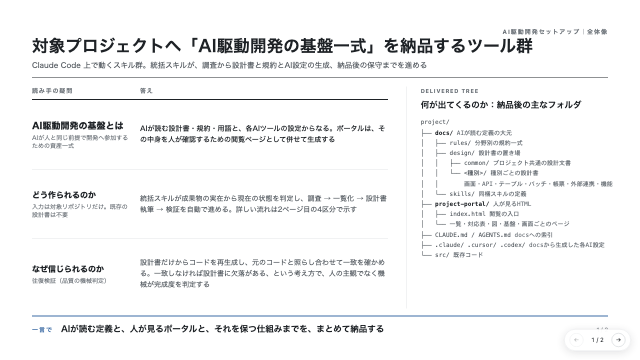
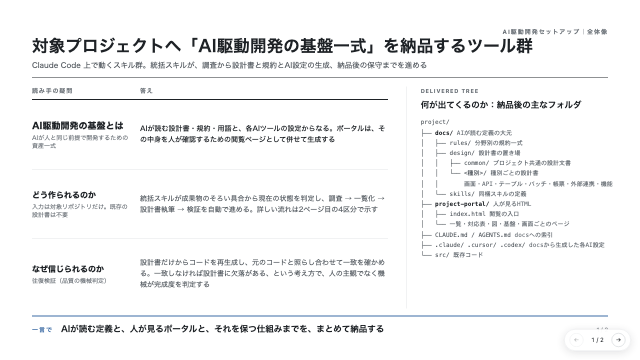
【スタイル】表示崩れと日本語を直す

Changed region(s): [[0.2188, 0.5194, 0.5938, 0.6111], [0.0312, 0.3972, 0.125, 0.4278], [0.1562, 0.3667, 0.1875, 0.3972]]

diff --git a/slides/AI駆動開発基盤納品-4区分/解説スライド.html b/slides/AI駆動開発基盤納品-4区分/解説スライド.html
@@ -40,6 +40,7 @@
   .role-nm{ margin:0; font-size:19px; font-weight:700; line-height:1.25; color:var(--ink); }
   .nm-sub{ display:block; font-size:11px; font-weight:400; color:var(--label); margin-top:1px; }
   .actor{ align-self:flex-start; font:700 10px/1 system-ui,sans-serif; letter-spacing:.06em; color:var(--label); border:1px solid var(--line); padding:3px 6px; }
+  .actor-set{ display:flex; flex-direction:column; gap:3px; align-self:flex-start; }
   .stage.focus .actor{ color:var(--accent); border-color:var(--accent); }
   .items{ margin:0; padding-left:15px; color:var(--muted); font-size:12px; line-height:1.55; }
   .items li+li{ margin-top:2px; }
@@ -72,12 +73,12 @@
       <div class="guide">
         <div class="g-head"><span>読み手の疑問</span><span>答え</span></div>
         <div class="g-row star">
-          <div class="g-what"><span class="nm">AI駆動開発の基盤とは</span><span class="sub">AIが人と同じ前提で開発へ参加するための資産一式</span></div>
+          <div class="g-what"><span class="nm">AI駆動開発の基盤とは</span><span class="sub">AIが人と同じ前提で開発するための資産一式</span></div>
           <span class="g-mid">AIが読む設計書・規約・用語と、各AIツールの設定からなる。ポータルは、その中身を人が確認するための閲覧ページとして併せて生成する</span>
         </div>
         <div class="g-row">
           <div class="g-what"><span class="nm">どう作られるのか</span><span class="sub">入力は対象リポジトリだけ。既存の設計書は不要</span></div>
-          <span class="g-mid">統括スキルが成果物の実在から現在の状態を判定し、調査 → 一覧化 → 設計書執筆 → 検証を自動で進める。詳しい流れは2ページ目の4区分で示す</span>
+          <span class="g-mid">統括スキルが成果物のそろい具合から現在の状態を判定し、調査 → 一覧化 → 設計書執筆 → 検証を自動で進める。詳しい流れは2ページ目の4区分で示す</span>
         </div>
         <div class="g-row">
           <div class="g-what"><span class="nm">なぜ信じられるのか</span><span class="sub">往復検証（品質の機械判定）</span></div>
@@ -121,20 +122,20 @@
       <article class="stage">
         <span class="level">1｜SETUP</span>
         <p class="role-nm">セットアップ</p>
-        <span class="actor">実行：本ツール群｜対象：納品先のリポジトリ</span>
+        <div class="actor-set"><span class="actor">実行：本ツール群</span><span class="actor">対象：納品先のリポジトリ</span></div>
         <ul class="items">
           <li>規約のひな形の配布</li>
           <li>AI設定（CLAUDE.md等）の生成</li>
           <li>同梱スキルの設置</li>
         </ul>
-        <p class="state">対象リポジトリに、AIが読む定義、各AIツールの設定、ポータルを立ち上げる。</p>
-        <p class="gate">成果：AIと人が同じ定義に到達できる状態</p>
+        <p class="state">対象リポジトリに、AIが読む定義と、各AIツールの設定と、ポータルを作って配置する。</p>
+        <p class="gate">成果：AIと人が同じ定義を参照できる状態</p>
       </article>
       <article class="stage focus">
         <span class="level">2｜REVERSE</span>
         <p class="role-nm">リバース</p>
-        <span class="actor">実行：本ツール群｜対象：納品先のリポジトリ</span>
-        <p class="state">既存コードから動作の事実を取り出して確定し（確定後は変更しない）、業務の言葉だけで設計書と一覧を書き起こす。作業は9つの手順（R1〜R9）で進む。</p>
+        <div class="actor-set"><span class="actor">実行：本ツール群</span><span class="actor">対象：納品先のリポジトリ</span></div>
+        <p class="state">既存コードを読み取って動作を記録し、確定する（確定後は変更しない）。その記録をもとに、業務の言葉で設計書と一覧を書く。作業は9つの手順（R1〜R9）で進む。</p>
         <div class="verify">
           <p class="v-nm">往復検証（品質の機械判定）</p>
           <p class="v-tx">設計書だけからコードを再生成し、元のコードと照らし合わせる。6観点がすべて一致した時だけ合格。</p>
@@ -145,21 +146,21 @@
       <article class="stage">
         <span class="level">3｜MAINTAIN</span>
         <p class="role-nm">保守<span class="nm-sub">納品物の維持</span></p>
-        <span class="actor">実行：本ツール群｜対象：配布する側の資産</span>
+        <div class="actor-set"><span class="actor">実行：本ツール群</span><span class="actor">対象：配布する側の資産</span></div>
         <ul class="items">
           <li>定義と生成物の食い違いの検出と作り直し</li>
           <li>定義と生成物の一致の検査</li>
           <li>機械検証の一括実行</li>
         </ul>
-        <p class="state">生成した時点の中身の指紋（ハッシュ値）を記録しておき、いまの中身と比べる。生成物への手編集を見つけたら、定義側を直して作り直す。</p>
-        <p class="gate">成果：定義と納品物がずれない状態</p>
+        <p class="state">生成した時点の中身の指紋（ハッシュ値）を記録しておき、いまの中身と比べる。生成物への手作業の書き換えを見つけたら、定義側を直して作り直す。</p>
+        <p class="gate">成果：定義と生成物が一致し続ける状態</p>
       </article>
       <article class="stage">
         <span class="level">4｜OPERATE</span>
         <p class="role-nm">現場運用<span class="nm-sub">納品先の開発サイクル</span></p>
-        <span class="actor">実行：納品先の開発チーム｜対象：納品先のリポジトリ</span>
+        <div class="actor-set"><span class="actor">実行：納品先の開発チーム</span><span class="actor">対象：納品先のリポジトリ</span></div>
         <ul class="items">
-          <li>開発フロー運転</li>
+          <li>開発フローの運用</li>
           <li>未確定事項の記録と反映</li>
           <li>規約提案の取り込みと生成物の同期</li>
           <li>用語を人が承認して確定する運用</li>
